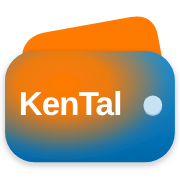
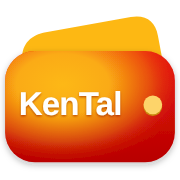
Ikon KenTal: dompet merah Ferrari, aksen kuning telur
Claude-Session: https://claude.ai/code/session_015Ebc1KBKGqm5xwmaobh5dd

diff --git a/index.html b/index.html
@@ -5,12 +5,12 @@
   <meta name="viewport" content="width=device-width, initial-scale=1, viewport-fit=cover">
   <meta name="theme-color" content="#121212">
   <meta name="robots" content="noindex, nofollow">
-  <link rel="icon" type="image/png" sizes="32x32" href="img/kental-32.png?v=8">
-  <link rel="icon" type="image/png" sizes="48x48" href="img/kental-48.png?v=8">
-  <link rel="icon" type="image/png" sizes="192x192" href="img/kental-192.png?v=8">
-  <link rel="icon" type="image/svg+xml" href="img/icon.svg?v=8">
-  <link rel="apple-touch-icon" href="img/kental-180.png?v=8">
-  <link rel="manifest" href="manifest.webmanifest?v=8">
+  <link rel="icon" type="image/png" sizes="32x32" href="img/kental-32.png?v=9">
+  <link rel="icon" type="image/png" sizes="48x48" href="img/kental-48.png?v=9">
+  <link rel="icon" type="image/png" sizes="192x192" href="img/kental-192.png?v=9">
+  <link rel="icon" type="image/svg+xml" href="img/icon.svg?v=9">
+  <link rel="apple-touch-icon" href="img/kental-180.png?v=9">
+  <link rel="manifest" href="manifest.webmanifest?v=9">
   <title>Keuangan Digital</title>
   <link rel="preconnect" href="https://fonts.googleapis.com">
   <link rel="preconnect" href="https://fonts.gstatic.com" crossorigin>
@@ -36,7 +36,7 @@
     <!-- ═════════ SIDEBAR (desktop/tablet) ═════════ -->
     <aside class="sidebar" id="sidebar" aria-label="Navigasi utama">
       <div class="brand">
-        <img class="brand-logo" src="img/icon.svg?v=8" alt="KenTal">
+        <img class="brand-logo" src="img/icon.svg?v=9" alt="KenTal">
         <div class="brand-text">
           <strong>Keuangan Digital</strong>
           <small>PERSONAL FINANCE</small>
@@ -143,7 +143,7 @@
   <!-- LAYAR MASUK — menutupi aplikasi sampai login berhasil -->
   <div class="auth-screen" id="authScreen" hidden>
     <div class="auth-card" role="dialog" aria-modal="true" aria-labelledby="authTitle">
-      <img class="brand-logo" src="img/icon.svg?v=8" alt="KenTal">
+      <img class="brand-logo" src="img/icon.svg?v=9" alt="KenTal">
       <h1 id="authTitle">Keuangan Digital</h1>
       <p id="authSub">Masuk untuk melanjutkan</p>
       <div class="auth-msg" id="authMsg" hidden></div>
